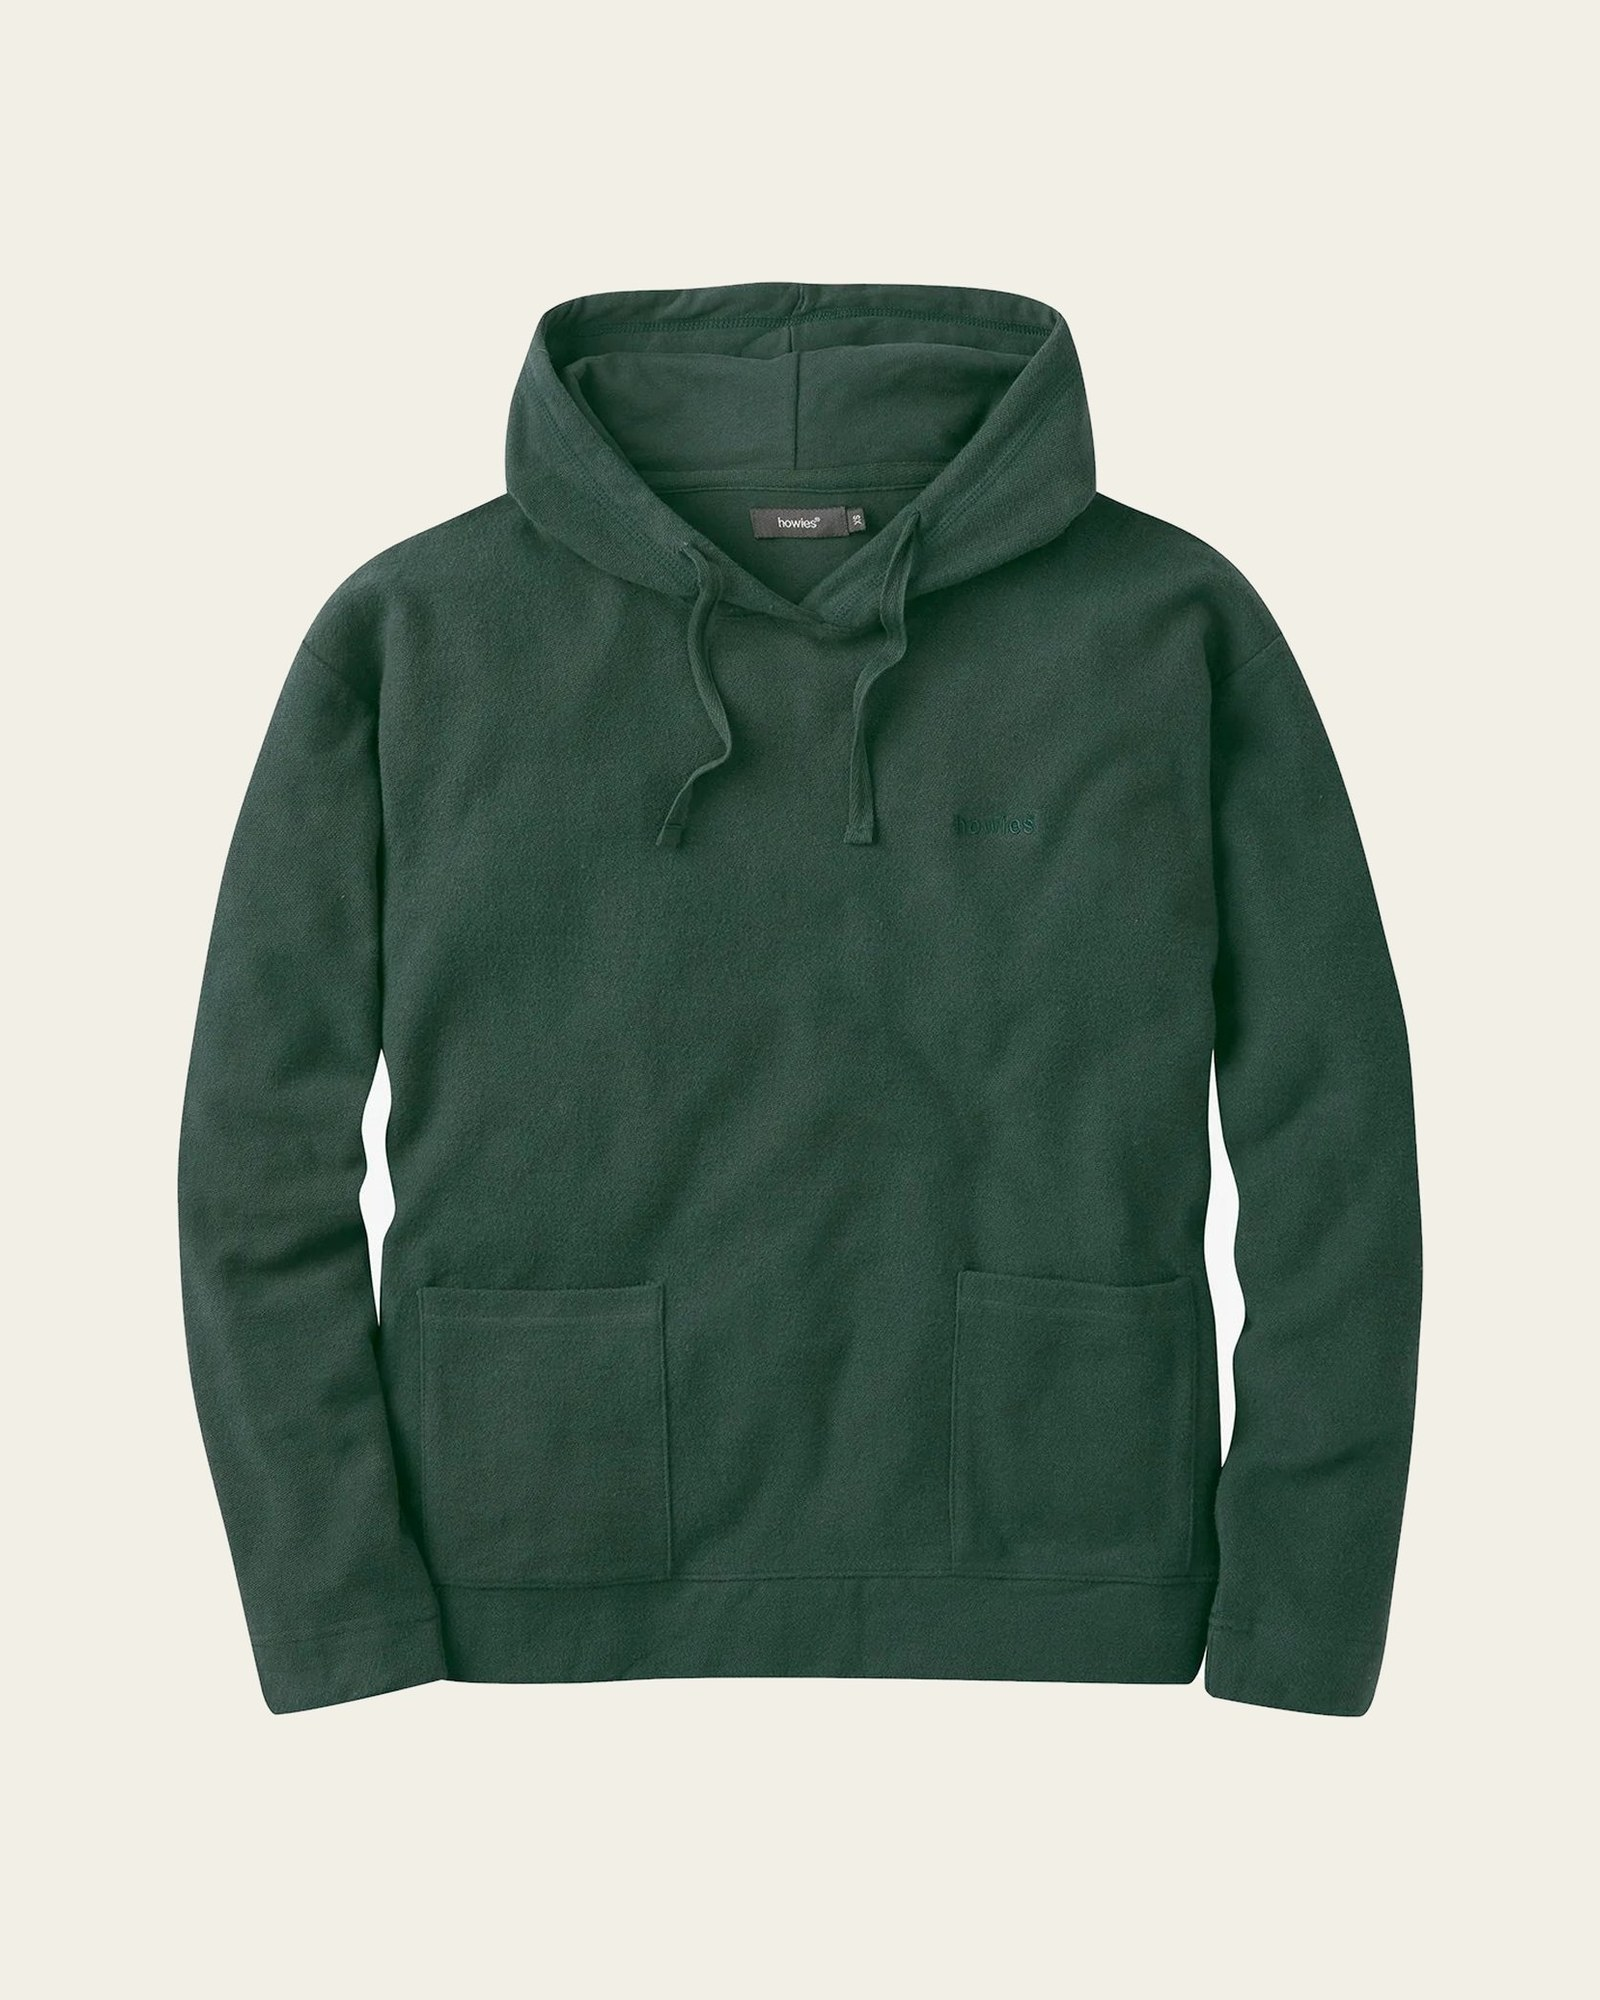
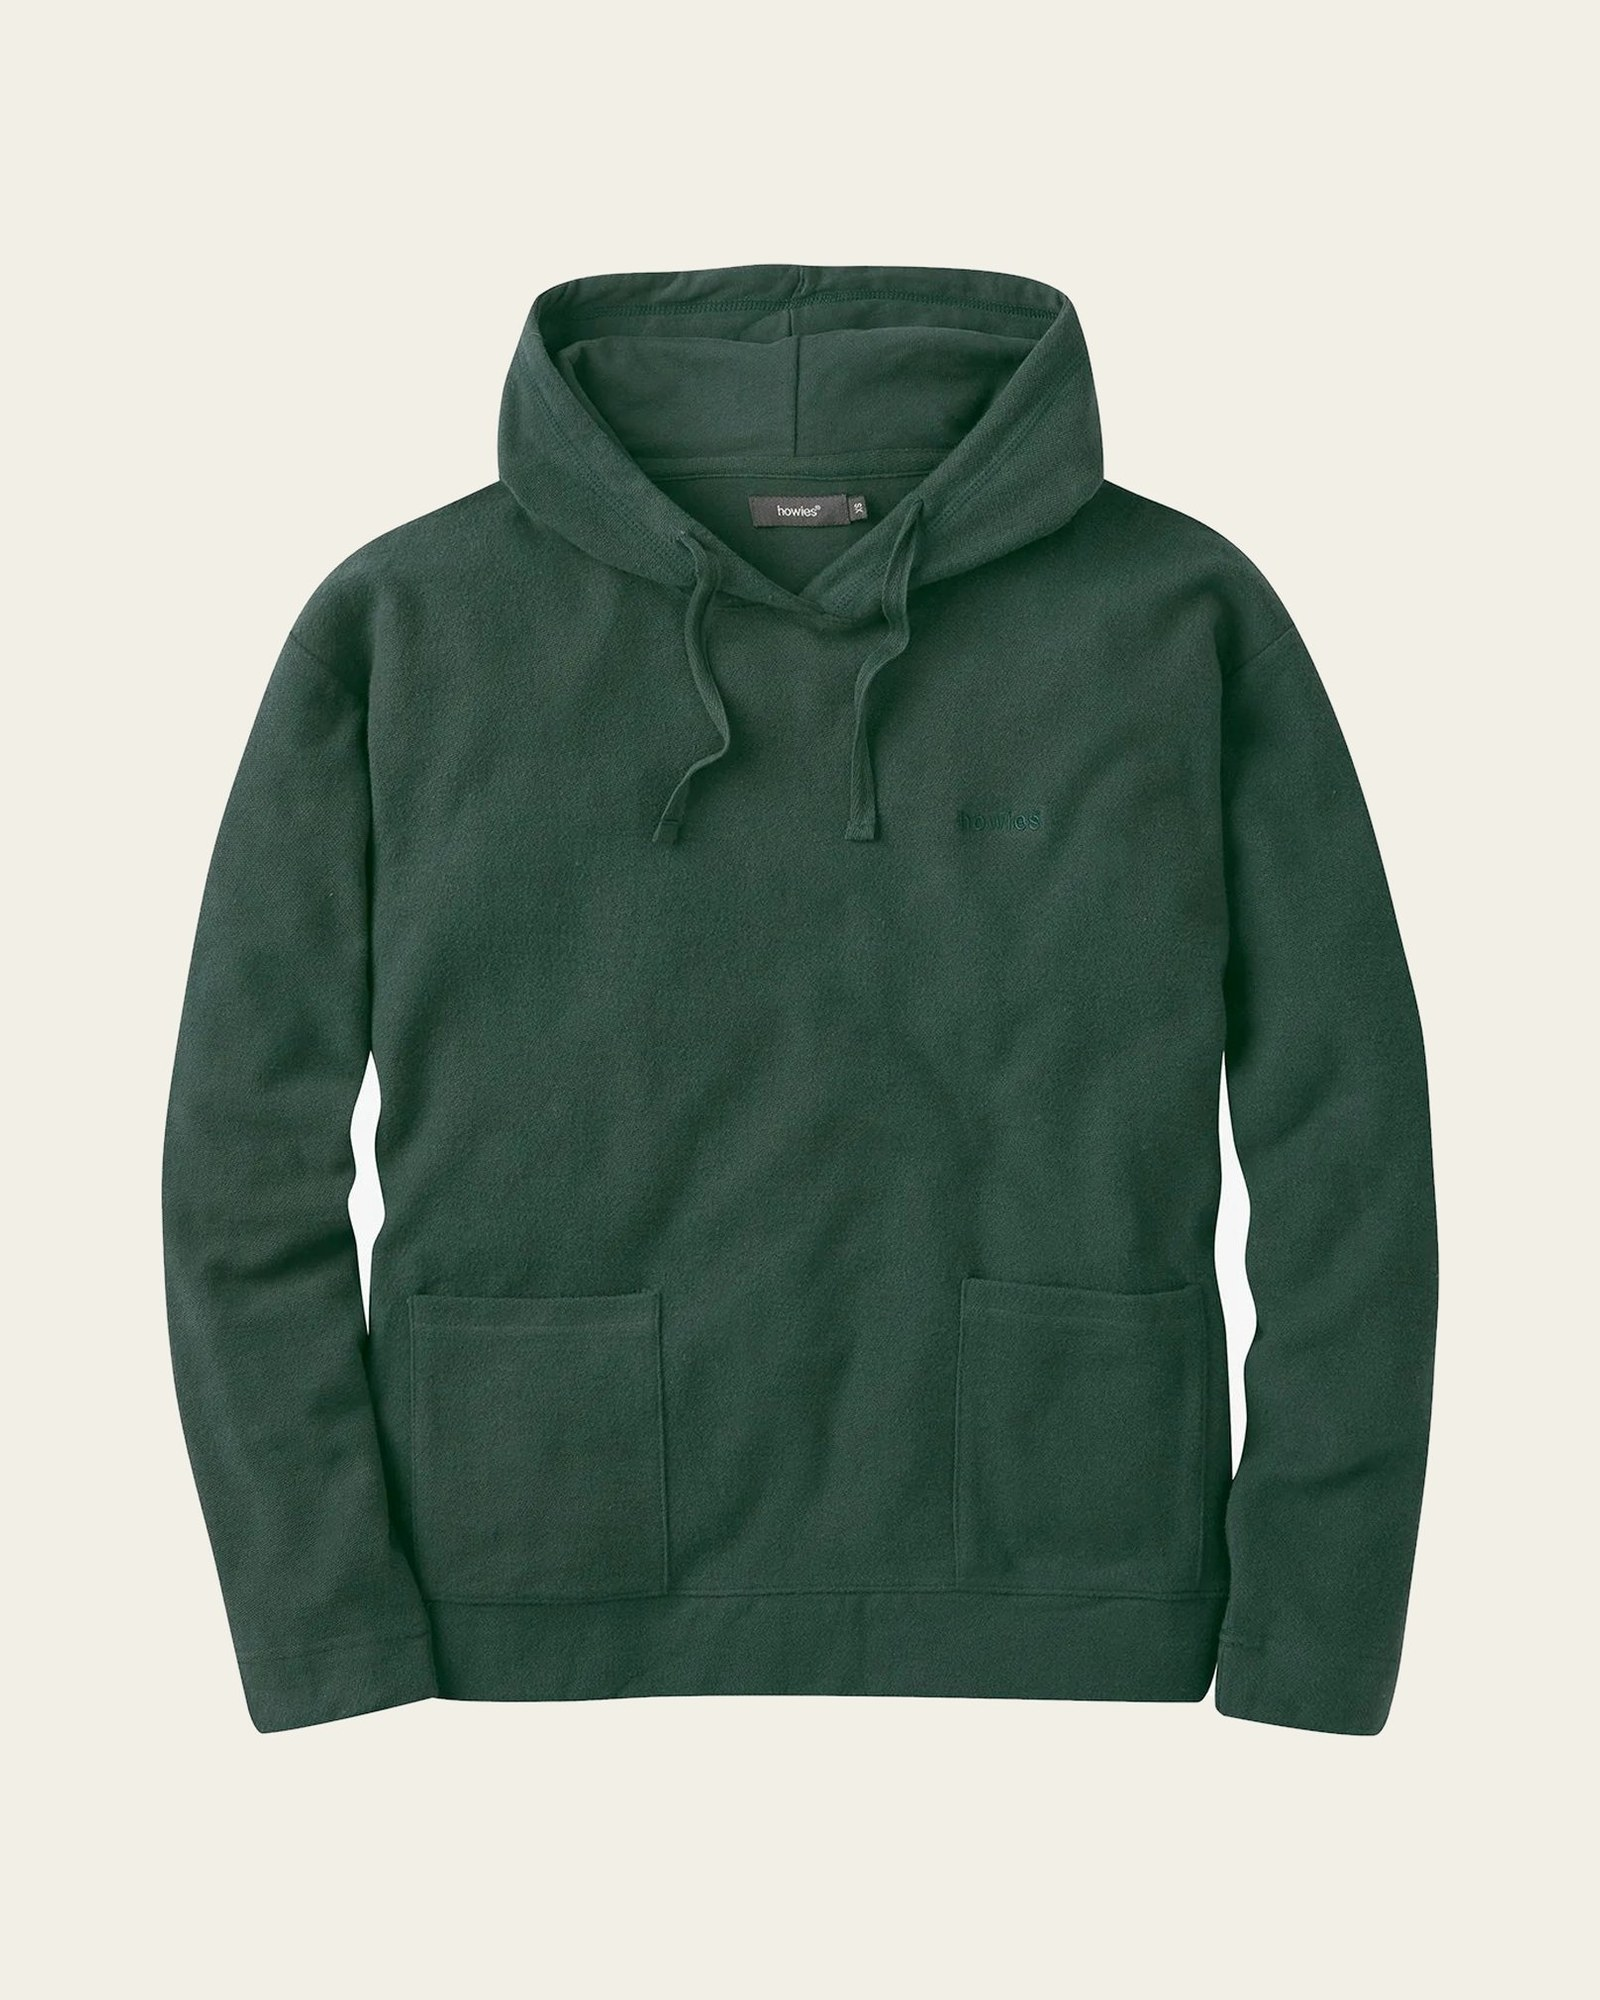
商品調整

diff --git a/style.css b/style.css
@@ -1301,8 +1301,6 @@ body.is-menu-open .site-header {
   width: 100%;
   height: 100%;
   object-fit: contain;
-  padding: 8%;                              /* 統一內距，讓每件衣服都有呼吸空間 */
-  box-sizing: border-box;
   transition: opacity .5s ease, transform .8s ease;
 }
 .card__img--main {
